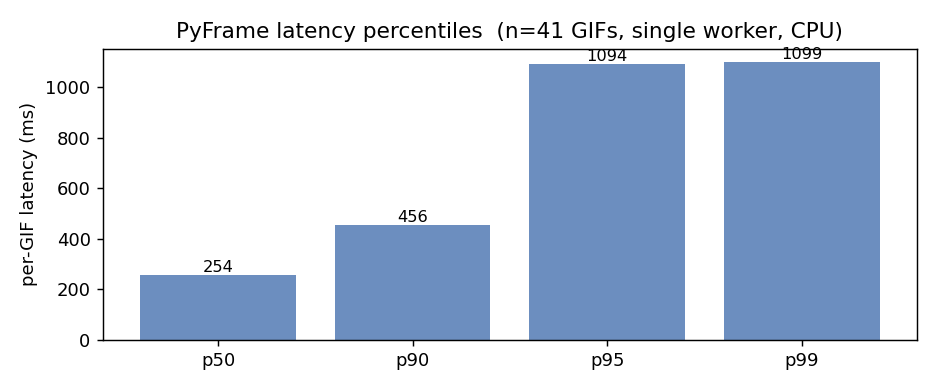
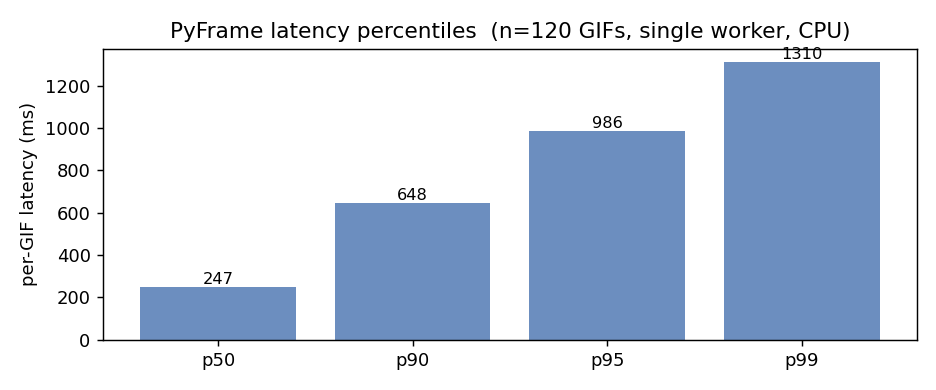
Cache backend instances and reuse in CLI
Add caching for constructed backends to avoid reloading large model weights per invocation: introduce _cache, _cache_lock, _construct, and a cache-aware load_backend (with cache=False bypass). Export clear_backend_cache() to allow tests or users to drop cached backends. Update package exports to include clear_backend_cache. Update CLI to build a Config and create a single Scanner.from_config() (reusing the constructed backend) and then scan each path with that scanner, handling BackendUnavailableError up-front. Also update two performance images (media/perf_latency.png, media/perf_stages.png).

diff --git a/src/pyframe/backends/__init__.py b/src/pyframe/backends/__init__.py
@@ -1,10 +1,11 @@
 from __future__ import annotations
 
 import importlib.util
+import threading
 
 from .base import Backend
 
-__all__ = ["Backend", "load_backend"]
+__all__ = ["Backend", "load_backend", "clear_backend_cache"]
 
 
 def _available(module: str) -> bool:
@@ -19,7 +20,31 @@ def _autodetect() -> str:
     return "local"  # surfaces the friendly install hint on construction
 
 
-def load_backend(spec, **kwargs) -> Backend:
+# Constructing a backend loads model weights (~0.5 GB for the local ViT) and is the
+# dominant setup cost. Cache by construction identity so the CLI's per-file loop and
+# repeated Pipe()/scan() calls reuse one loaded model instead of reloading it each time.
+# Backends are stateless after construction, so sharing one instance is safe; the lock
+# keeps a concurrent first-miss from loading the same model twice.
+_cache: dict[tuple, Backend] = {}
+_cache_lock = threading.Lock()
+
+
+def _construct(spec: str, kwargs: dict) -> Backend:
+    if spec == "local":
+        from .local import LocalBackend
+
+        return LocalBackend(model=kwargs.get("model"))
+    if spec == "aws":
+        from .aws import RekognitionBackend
+
+        return RekognitionBackend(region=kwargs.get("region", "us-east-1"))
+
+    raise ValueError(f"Unknown backend: {spec!r}. Use 'local', 'aws', or 'local:<model-id>'.")
+
+
+def load_backend(spec, *, cache: bool = True, **kwargs) -> Backend:
+    # An already-built backend (e.g. a test fake or a user-constructed instance) is
+    # passed straight through, never cached.
     if isinstance(spec, Backend):
         return spec
 
@@ -31,13 +56,27 @@ def load_backend(spec, **kwargs) -> Backend:
         kwargs.setdefault("model", spec.split(":", 1)[1])
         spec = "local"
 
-    if spec == "local":
-        from .local import LocalBackend
+    if not cache:
+        return _construct(spec, kwargs)
 
-        return LocalBackend(model=kwargs.get("model"))
-    if spec == "aws":
-        from .aws import RekognitionBackend
+    # Key on exactly the inputs that change the constructed backend: load_backend only
+    # varies model (local) and region (aws). Custom nsfw_labels/label_floor are reachable
+    # only by constructing a backend directly, which bypasses this cache.
+    key = (spec, kwargs.get("model"), kwargs.get("region", "us-east-1"))
+    cached = _cache.get(key)
+    if cached is not None:
+        return cached
+    with _cache_lock:
+        cached = _cache.get(key)
+        if cached is not None:
+            return cached
+        backend = _construct(spec, kwargs)  # construction failures are not cached
+        _cache[key] = backend
+        return backend
 
-        return RekognitionBackend(region=kwargs.get("region", "us-east-1"))
 
-    raise ValueError(f"Unknown backend: {spec!r}. Use 'local', 'aws', or 'local:<model-id>'.")
+def clear_backend_cache() -> None:
+    """Drop cached backends so their model weights can be garbage-collected. Useful in
+    tests or to reclaim memory after a batch of scans."""
+    with _cache_lock:
+        _cache.clear()

diff --git a/src/pyframe/cli.py b/src/pyframe/cli.py
@@ -61,30 +61,40 @@ def build_parser() -> argparse.ArgumentParser:
 
 
 def main() -> int:
-    from .pipe import scan
+    from .config import Config, PrescreenConfig
+    from .scanner import Scanner
 
     args = build_parser().parse_args()
+
+    config = Config(
+        backend=args.backend,
+        model=args.model,
+        region=args.region,
+        max_frames=args.max_frames,
+        min_confidence=args.min_confidence,
+        sampler=args.sampler,
+        use_merged=args.use_merged,
+        frames_per_batch=args.frames_per_batch,
+        prescreen=PrescreenConfig(
+            enabled=args.prescreen,
+            screen_fps=args.screen_fps,
+            escalate_threshold=args.escalate_threshold,
+            max_escalations=args.max_escalations,
+        ),
+    )
+
+    # Build the backend (and load the model) once, then reuse it for every file,
+    # instead of reloading the model per path.
+    try:
+        scanner = Scanner.from_config(config)
+    except BackendUnavailableError as exc:
+        print(exc, file=sys.stderr)
+        return 3
+
     rc = 0
     for path in args.paths:
         try:
-            result = scan(
-                path,
-                backend=args.backend,
-                model=args.model,
-                region=args.region,
-                max_frames=args.max_frames,
-                min_confidence=args.min_confidence,
-                sampler=args.sampler,
-                use_merged=args.use_merged,
-                frames_per_batch=args.frames_per_batch,
-                prescreen=args.prescreen,
-                escalate_threshold=args.escalate_threshold,
-                max_escalations=args.max_escalations,
-                screen_fps=args.screen_fps,
-            )
-        except BackendUnavailableError as exc:
-            print(exc, file=sys.stderr)
-            return 3
+            result = scanner.scan(path)
         except (UnsupportedMediaError, MediaDecodeError, FileNotFoundError, PyFrameError) as exc:
             print(f"error: {exc}", file=sys.stderr)
             rc = max(rc, 2)

diff --git a/src/pyframe/__init__.py b/src/pyframe/__init__.py
@@ -1,6 +1,6 @@
 from __future__ import annotations
 
-from .backends import Backend, load_backend
+from .backends import Backend, clear_backend_cache, load_backend
 from .config import Config, PrescreenConfig
 from .errors import (
     BackendUnavailableError,
@@ -37,6 +37,7 @@ __all__ = [
     "Severity",
     "Backend",
     "load_backend",
+    "clear_backend_cache",
     "Frame",
     "MediaKind",
     "iter_frames",
